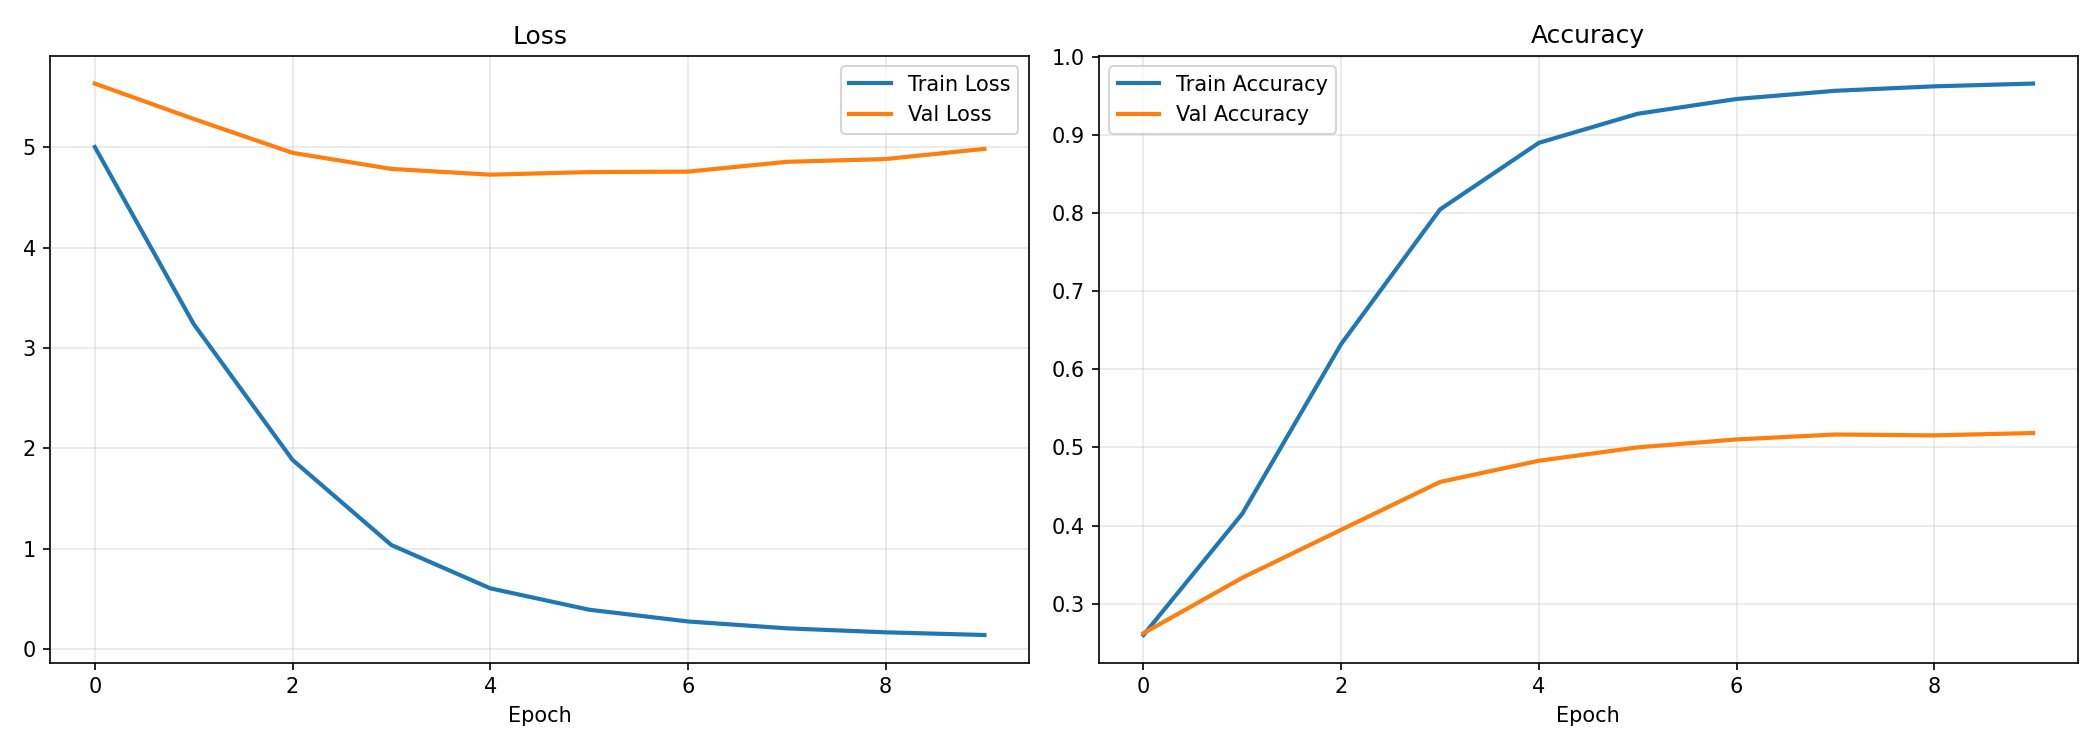
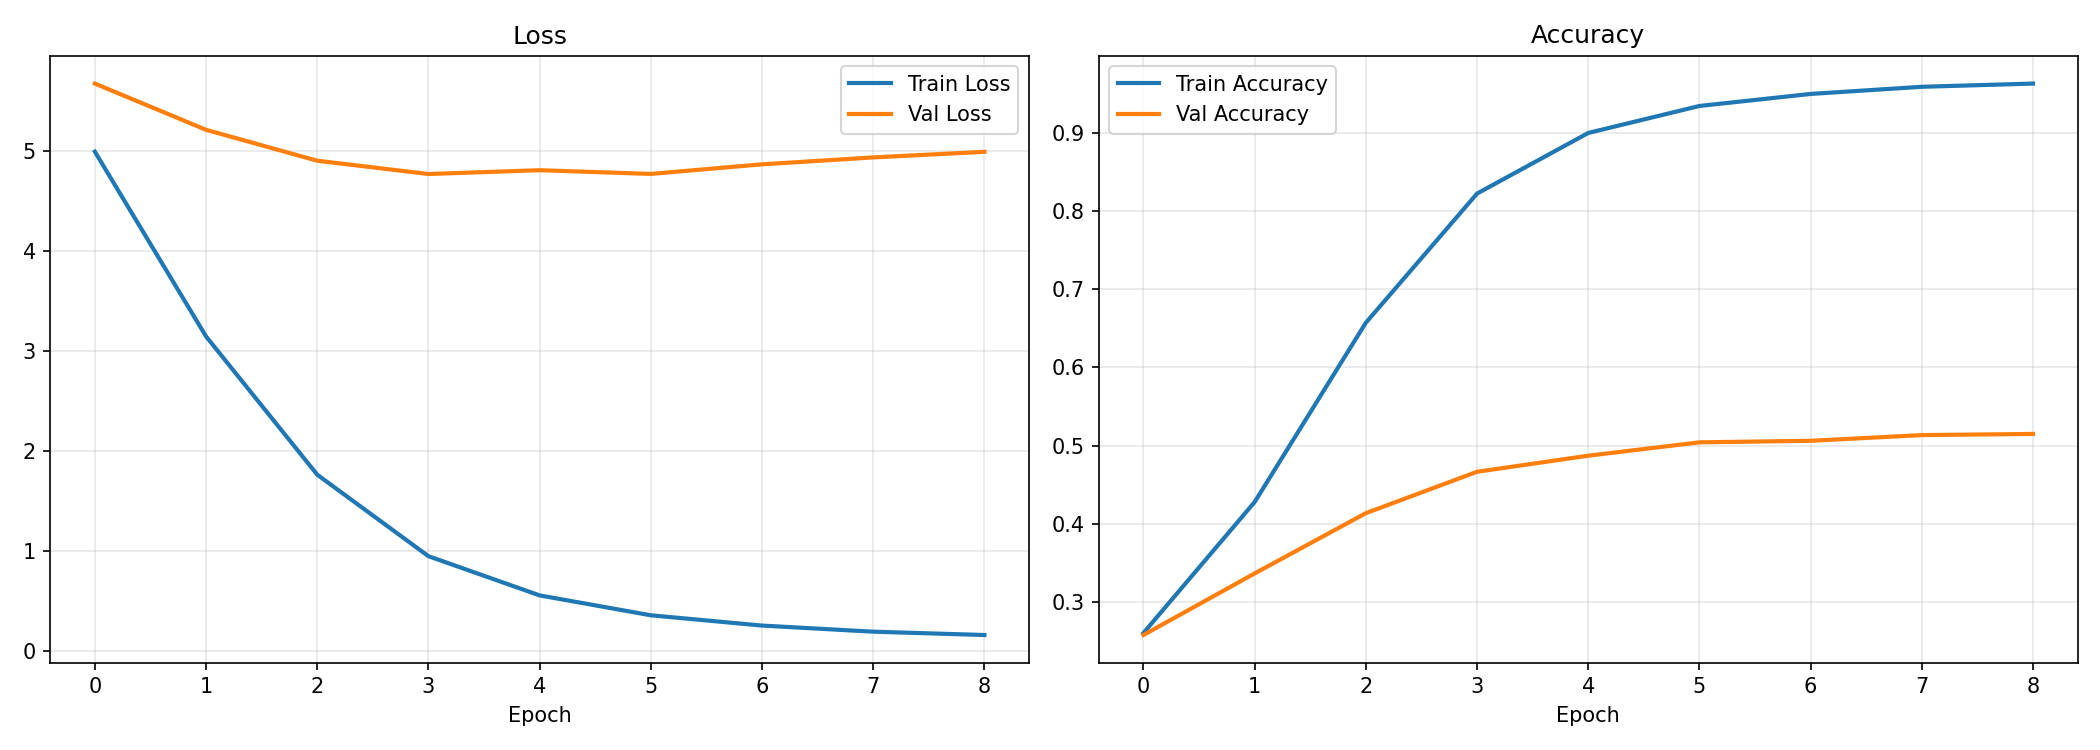
Bug Fixes

diff --git a/frontend/src/components/TranslatorApp.jsx b/frontend/src/components/TranslatorApp.jsx
@@ -1,7 +1,8 @@
-import { useState, useRef } from "react";
+import { useState, useRef, useEffect } from "react";
 import styles from "../styles/TranslatorApp.module.css";
 
-const API_URL = "http://localhost:5000/translate";
+// ── Use relative /api path so Vite's proxy handles it (fixes CORS issues) ────
+const API_BASE = "/api";
 
 const LANG_CONFIG = {
   en_hi: {
@@ -23,12 +24,39 @@ const LANG_CONFIG = {
 };
 
 const MODE_CONFIG = {
-  baseline: { emoji: "⚡", label: "Baseline",     desc: "Basic Seq2Seq, greedy" },
-  attention: { emoji: "🔍", label: "Attention",   desc: "Bahdanau attention, greedy" },
-  beam:      { emoji: "🔦", label: "Beam Search", desc: "Attention + beam" },
+  baseline:  { emoji: "⚡", label: "Baseline",     desc: "Basic Seq2Seq, greedy" },
+  attention: { emoji: "🔍", label: "Attention",    desc: "Bahdanau attention, greedy" },
+  beam:      { emoji: "🔦", label: "Beam Search",  desc: "Attention + beam" },
 };
 
 const BEAM_OPTIONS = [3, 5, 8, 10];
+
+// ── How long (ms) to wait before giving up on the backend ────────────────────
+const REQUEST_TIMEOUT_MS = 60_000; // 60 s — model inference can be slow
+
+// ── Helper: fetch with timeout ────────────────────────────────────────────────
+async function fetchWithTimeout(url, options = {}, timeoutMs = REQUEST_TIMEOUT_MS) {
+  const controller = new AbortController();
+  const id = setTimeout(() => controller.abort(), timeoutMs);
+  try {
+    const res = await fetch(url, { ...options, signal: controller.signal });
+    return res;
+  } finally {
+    clearTimeout(id);
+  }
+}
+
+// ── Helper: normalise any fetch/network error into a friendly string ──────────
+function friendlyError(err) {
+  if (err.name === "AbortError") {
+    return "⏱ Request timed out — the model might still be loading. Try again in a moment.";
+  }
+  // TypeError covers "Failed to fetch", "NetworkError", "net::ERR_CONNECTION_REFUSED" etc.
+  if (err instanceof TypeError || err.message?.toLowerCase().includes("fetch")) {
+    return "⚠️ Cannot reach backend — make sure app.py is running on port 5000.";
+  }
+  return err.message || "Unknown error";
+}
 
 export default function TranslatorApp() {
   const [direction, setDirection] = useState("en_hi");
@@ -39,9 +67,26 @@ export default function TranslatorApp() {
   const [loading, setLoading]     = useState(false);
   const [error, setError]         = useState("");
   const [flipping, setFlipping]   = useState(false);
+  // null = unknown, true = up, false = down
+  const [backendUp, setBackendUp] = useState(null);
   const textareaRef = useRef(null);
 
   const L = LANG_CONFIG[direction];
+
+  // ── Health-check on mount & every 30 s ─────────────────────────────────────
+  useEffect(() => {
+    const check = async () => {
+      try {
+        const res = await fetchWithTimeout(`${API_BASE}/health`, {}, 5000);
+        setBackendUp(res.ok);
+      } catch {
+        setBackendUp(false);
+      }
+    };
+    check();
+    const interval = setInterval(check, 30_000);
+    return () => clearInterval(interval);
+  }, []);
 
   const handleFlip = () => {
     setFlipping(true);
@@ -55,30 +100,46 @@ export default function TranslatorApp() {
   };
 
   const handleTranslate = async () => {
-    if (!input.trim()) return;
+    if (!input.trim() || loading) return;
+
     setLoading(true);
     setError("");
     setOutput("");
 
     try {
-      const res = await fetch(API_URL, {
-        method: "POST",
-        headers: { "Content-Type": "application/json" },
-        body: JSON.stringify({ text: input.trim(), direction, mode, beam_k: beamK }),
-      });
-      if (!res.ok) {
-        const err = await res.json().catch(() => ({}));
-        throw new Error(err.error || `Server error ${res.status}`);
-      }
-      const data = await res.json();
-      setOutput(data.translation || "");
-    } catch (err) {
-      setError(
-        err.message.includes("fetch")
-          ? "⚠️ Cannot reach backend — make sure app.py is running on port 5000."
-          : err.message
+      const res = await fetchWithTimeout(
+        `${API_BASE}/translate`,
+        {
+          method: "POST",
+          headers: { "Content-Type": "application/json" },
+          body: JSON.stringify({ text: input.trim(), direction, mode, beam_k: beamK }),
+        },
+        REQUEST_TIMEOUT_MS
       );
+
+      // Always try to parse JSON — Flask returns JSON even for 4xx/5xx errors
+      let data;
+      try {
+        data = await res.json();
+      } catch {
+        throw new Error(`Server returned non-JSON response (status ${res.status})`);
+      }
+
+      if (!res.ok) {
+        throw new Error(data?.error || `Server error ${res.status}`);
+      }
+
+      setOutput(data.translation ?? "");
+      // Mark backend as confirmed up
+      setBackendUp(true);
+
+    } catch (err) {
+      setError(friendlyError(err));
+      if (err instanceof TypeError || err.name === "AbortError") {
+        setBackendUp(false);
+      }
     } finally {
+      // ✅ Always clear loading — this is the fix for the "stuck on Translating" bug
       setLoading(false);
     }
   };
@@ -91,6 +152,12 @@ export default function TranslatorApp() {
     mode === "beam"
       ? `Attention + beam k=${beamK}`
       : MODE_CONFIG[mode].desc;
+
+  // ── Backend status pill ────────────────────────────────────────────────────
+  const statusPill =
+    backendUp === null  ? { text: "Checking backend…", cls: styles.statusChecking } :
+    backendUp           ? { text: "✅ Backend online",  cls: styles.statusOnline   } :
+                          { text: "❌ Backend offline", cls: styles.statusOffline  };
 
   return (
     <div className={styles.page}>
@@ -107,6 +174,10 @@ export default function TranslatorApp() {
           <span className={styles.langLabel}>{L.to} {L.toFlag}</span>
         </div>
         <p className={styles.poweredBy}>Powered by your trained LSTM model</p>
+        {/* Backend status indicator */}
+        <span className={`${styles.statusPill} ${statusPill.cls}`}>
+          {statusPill.text}
+        </span>
       </header>
 
       {/* Main card */}
@@ -195,7 +266,7 @@ export default function TranslatorApp() {
               <p className={styles.outputText}>{output}</p>
             ) : (
               <p className={styles.placeholder}>
-                {loading ? "Decoding..." : "Translation appears here"}
+                {loading ? "Decoding…" : "Translation appears here"}
               </p>
             )}
             {output && !loading && (
@@ -216,7 +287,7 @@ export default function TranslatorApp() {
             disabled={loading || !input.trim()}
             className={`${styles.translateBtn} ${loading || !input.trim() ? styles.translateBtnDisabled : ""}`}
           >
-            {loading ? "Translating..." : `Translate ${L.fromFlag} → ${L.toFlag}`}
+            {loading ? "Translating…" : `Translate ${L.fromFlag} → ${L.toFlag}`}
           </button>
         </div>
 

diff --git a/frontend/vite.config.js b/frontend/vite.config.js
@@ -4,4 +4,16 @@ import react from '@vitejs/plugin-react'
 // https://vite.dev/config/
 export default defineConfig({
   plugins: [react()],
+  server: {
+    proxy: {
+      // All /api/* requests are proxied to the Flask backend.
+      // This avoids CORS issues entirely — the browser talks to Vite,
+      // Vite forwards to Flask.
+      '/api': {
+        target: 'http://localhost:5000',
+        changeOrigin: true,
+        rewrite: (path) => path.replace(/^\/api/, ''),
+      },
+    },
+  },
 })